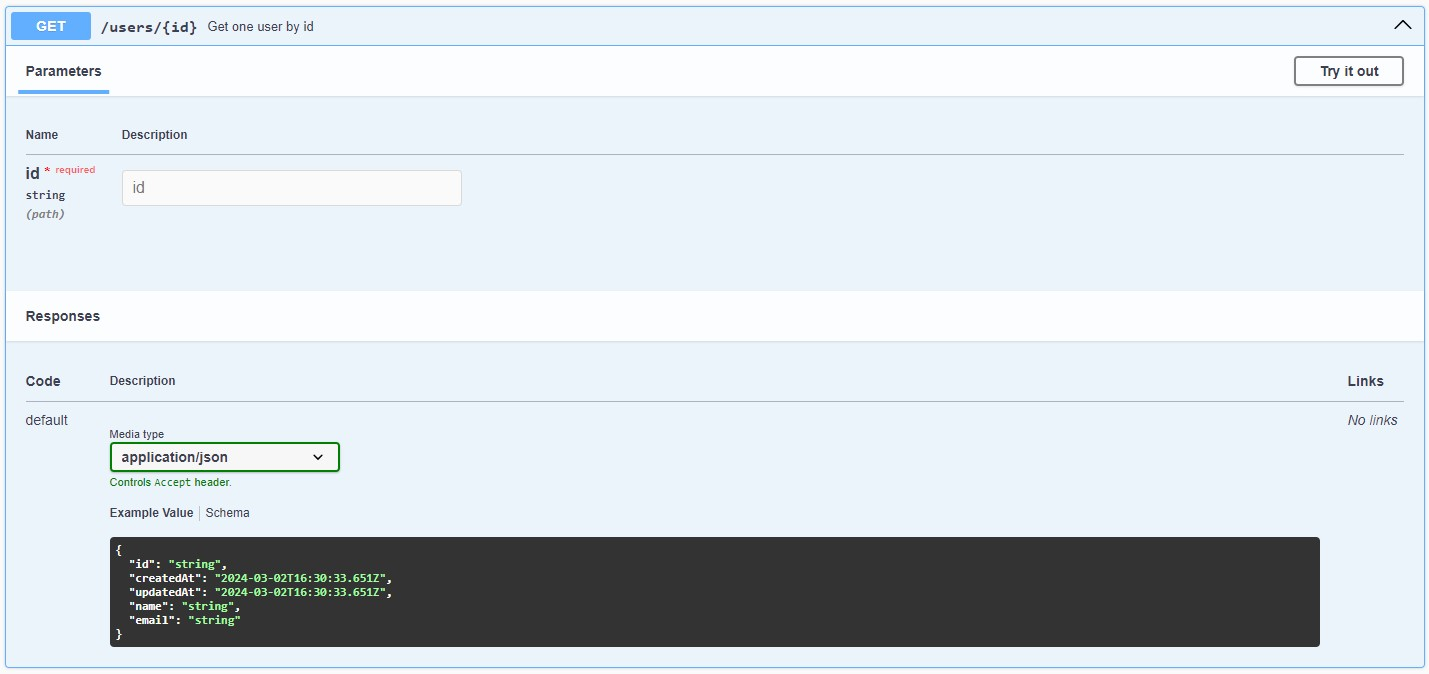
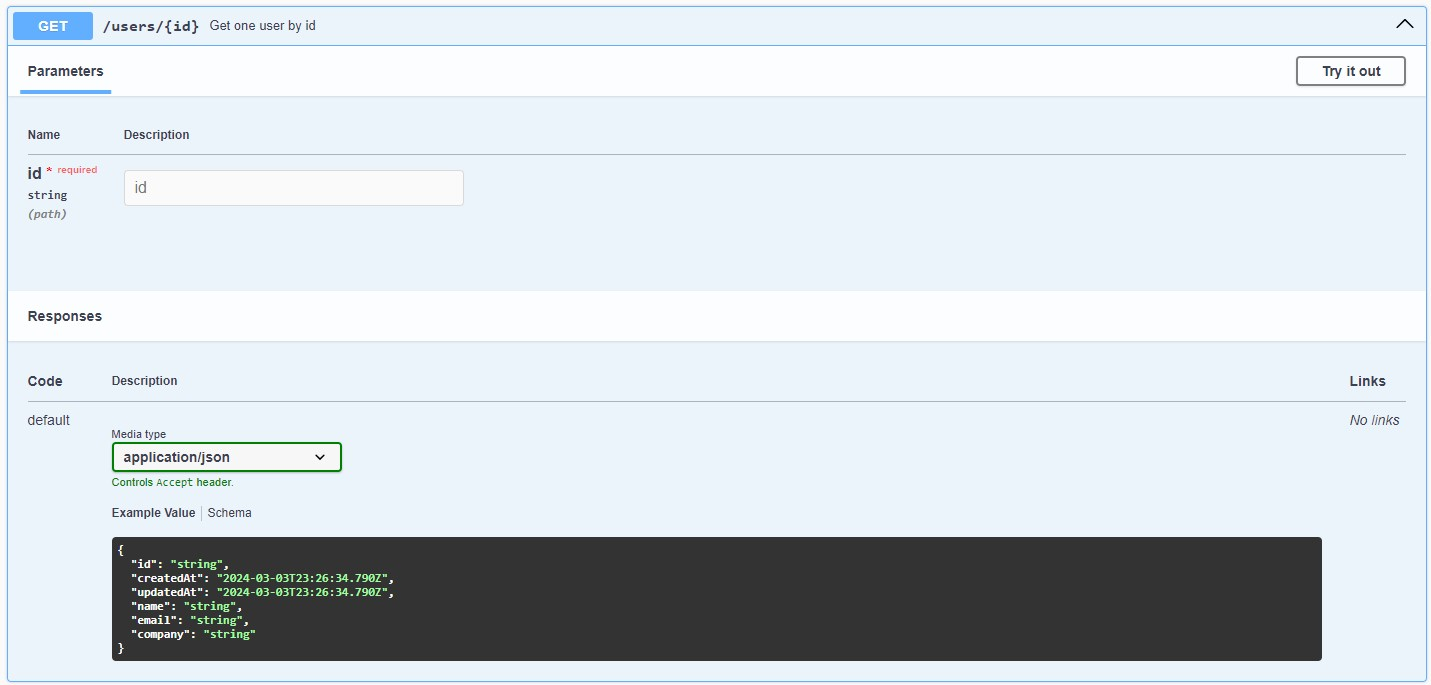
docs: improve README.md, update screenshots

diff --git a/README.md b/README.md
@@ -80,14 +80,18 @@ nest new --strict your-project-name
 ```text
 npm i -S mongodb-dynamic-api
 ```
+**Basic Configuration**
 
-- Add DynamicApiModule to your app.module.ts and pass the MongoDB connection string to the `forRoot` method
+- Add `DynamicApiModule.forRoot` to your `app.module.ts` and pass your **MongoDB connection string** to the method.
+
 ```typescript
+// app.module.ts
+import { DynamicApiModule } from 'mongodb-dynamic-api';
+
 @Module({
   imports: [
-    // ...
     DynamicApiModule.forRoot(
-      // <- pass the MongoDB connection string here
+      'mongodb://127.0.0.1:27017/dynamic-api-db', // <- replace by your own connection string
     ),
     // ...
   ],
@@ -96,12 +100,20 @@ npm i -S mongodb-dynamic-api
 })
 export class AppModule {}
 ```
+**Basic usage**
 
-- Ok, now let's add our first content. This content will be a simple `User` with a `name` and an `email` field.
+- Ok, now let's add our first content with just 2 files. It will be a simple `User` with a `name` and an `email` field.
+- We use the `@Schema` and `@Prop` decorators from the `@nestjs/mongoose` package to define our MongoDB model. 
+- You must extend the `BaseEntity` (or `SoftDeletableEntity`) class from the `mongodb-dynamic-api` package **for all your collection models**.
+- Just create a new file `user.ts` and add the following code.
+
 ```typescript
-// user.ts
+// users/user.ts
+import { Prop, Schema } from '@nestjs/mongoose';
+import { BaseEntity } from 'mongodb-dynamic-api';
+
 @Schema({ collection: 'users' })
-export class User extends BaseEntity { // <- you must extend BaseEntity
+export class User extends BaseEntity {
   @Prop({ type: String })
   name: string;
 
@@ -109,11 +121,19 @@ export class User extends BaseEntity { // <- you must extend BaseEntity
   email: string;
 }
 ```
+
+- Then we will use the `DynamicApiModule.forFeature` method to add the `User` content.
+- We pass the `User` class to the `entity` property and specify the path `users` to the `controllerOptions` property.
+- Create a new file `users.module.ts` and add the following code.
+
 ```typescript
-// users.module.ts
+// users/users.module.ts
+import { DynamicApiModule } from 'mongodb-dynamic-api';
+import { User } from './user';
+
 @Module({
   imports: [
-    DynamicApiModule.forFeature({ // <- use the forFeature method to add the User content
+    DynamicApiModule.forFeature({
       entity: User,
       controllerOptions: {
         path: 'users',
@@ -123,13 +143,19 @@ export class User extends BaseEntity { // <- you must extend BaseEntity
 })
 export class UsersModule {}
 ```
+
+- Last step, add the `UsersModule` to the **imports** in the `app.module.ts` after the `DynamicApiModule.forRoot` method.
+
 ```typescript
 // app.module.ts
+import { DynamicApiModule } from 'mongodb-dynamic-api';
+import { UsersModule } from './users/users.module';
+
 @Module({
   imports: [
-    // ...
     DynamicApiModule.forRoot('...'),
-    UsersModule, // <- add the module to the imports after the DynamicApiModule
+    // ...
+    UsersModule,
   ],
   controllers: [AppController],
   providers: [AppService],
@@ -137,11 +163,18 @@ export class UsersModule {}
 export class AppModule {}
 ```
 
-**That's all !** *You now have a fully functional CRUD API for the `User` content at the `/users` path.*
+**And that's all !** *You now have a fully functional CRUD API for the `User` content at the `/users` path.*
 
 ___
-### [Swagger]() (optional but recommended)
+### [Swagger UI](https://docs.nestjs.com/openapi/introduction#document-options) (optional but strongly recommended)
+`function enableDynamicAPISwagger(app: INestApplication, options?: DynamicAPISwaggerOptions): void`
+
+**Configuration**
+
 ```typescript
+// main.ts
+import { enableDynamicAPISwagger } from 'mongodb-dynamic-api';
+
 async function bootstrap() {
   const app = await NestFactory.create(AppModule);
   // ...
@@ -150,12 +183,20 @@ async function bootstrap() {
   await app.listen(3000);
 }
 ```
-The `enableDynamicAPISwagger` function will automatically build the swagger documentation.
-This method can be called with optional parameters to specify more documentation options.
 
-Do not forget to add the `@ApiProperty` decorator to your entity properties to have a better swagger documentation.
+The `enableDynamicAPISwagger` function will automatically build the swagger documentation.
+<br>This method can be called with optional parameters to specify more documentation options.
+<br>*See <strong>nestjs</strong> <a href="https://docs.nestjs.com/openapi/introduction#document-options" target="_blank">documentation</a> for more details.*
+
+**Usage**
+
+Add the `@ApiProperty` | `@ApiPropertyOptional` decorators to your class properties to have a better swagger documentation.
+<br>Let's add an optional company field to the `User` class.
+
 ```typescript
 // user.ts
+import { ApiProperty, ApiPropertyOptional } from '@nestjs/swagger';
+
 @Schema({ collection: 'users' })
 export class User extends BaseEntity {
   @ApiProperty() // <- add this line
@@ -165,19 +206,114 @@ export class User extends BaseEntity {
   @ApiProperty() // <- add this line
   @Prop({ type: String })
   email: string;
+
+  @ApiPropertyOptional() // <- add this line
+  @Prop({ type: String, required: false })
+  company?: string;
 }
 ```
 
-go to the swagger API path (default to `/openapi`) and you will see the auto generated API
-
+go to the swagger API path (default to `/dynamic-api`) and you will see the auto generated API
 
 ![User API](https://github.com/MikeDev75015/mongodb-dynamic-api/blob/develop/README/images/dynamic-api-user-full.Jpeg?raw=true "User API")
 
-[more screenshots](https://github.com/MikeDev75015/mongodb-dynamic-api/blob/develop/README/swagger.md)
+<a href="https://github.com/MikeDev75015/mongodb-dynamic-api/blob/develop/README/swagger.md" target="_blank">See more User API screenshots</a>
 
 ___
-### Versioning (optional)
+### [Validation](https://docs.nestjs.com/techniques/validation#using-the-built-in-validationpipe) (optional)
+`function enableDynamicAPIValidation(app: INestApplication, options?: ValidationPipeOptions): void`
+
+**Configuration**
+
 ```typescript
+// main.ts
+import { enableDynamicAPIValidation } from 'mongodb-dynamic-api';
+
+async function bootstrap() {
+  const app = await NestFactory.create(AppModule);
+  // ...
+  enableDynamicAPIValidation(app); // <- add this line in your main.ts file
+
+  await app.listen(3000);
+}
+```
+The `enableDynamicAPIValidation` function allow to configure the pipe validation options for the API globally.
+
+You can also define the pipe validation options in the `DynamicApiModule.forFeature` method, either in the controller options,
+or in each route object defined in the routes property.
+
+*If the options are specified in 2, the options specified in the route will have priority.*
+
+```typescript
+// users.module.ts
+import { DynamicApiModule } from 'mongodb-dynamic-api';
+import { User } from './user';
+
+@Module({
+  imports: [
+    DynamicApiModule.forFeature({
+      entity: User,
+      controllerOptions: {
+        // ...
+        validationPipeOptions: { // <- in the controller options
+          transform: true,
+          whitelist: true,
+          forbidNonWhitelisted: true,
+        },
+      },
+      routes: [
+        {
+          type: 'DuplicateOne',
+          validationPipeOptions: { transform: true }, // <- in the route options
+        },
+      ],
+    }),
+  ],
+})
+export class UsersModule {}
+```
+
+**Usage**
+
+Use the `Class validator` <a href="https://github.com/typestack/class-validator?tab=readme-ov-file#validation-decorators" target="_blank">decorators</a> to validate your class properties.
+<br>Let's add `IsEmail` decorator to the `email` field.
+
+```typescript
+// user.ts
+import { IsEmail } from 'class-validator';
+
+@Schema({ collection: 'users' })
+export class User extends BaseEntity {
+  @ApiProperty()
+  @Prop({ type: String })
+  name: string;
+
+  @ApiProperty()
+  @IsEmail()
+  @Prop({ type: String })
+  email: string;
+
+  @ApiPropertyOptional()
+  @Prop({ type: String, required: false })
+  company?: string;
+}
+```
+
+Ok, now if you try to create a new user with an invalid email, you will get a `400 Bad Request` error.
+
+![User API Validation](https://github.com/MikeDev75015/mongodb-dynamic-api/blob/develop/README/images/dynamic-api-validation.Jpeg?raw=true "User API Validation")
+
+
+___
+### [Versioning](https://docs.nestjs.com/techniques/versioning) (optional)
+`function enableDynamicAPIVersioning(app: INestApplication, options?: VersioningOptions): void`
+
+**Configuration**
+
+```typescript
+// main.ts
+import { enableDynamicAPIVersioning } from 'mongodb-dynamic-api';
+
 async function bootstrap() {
   const app = await NestFactory.create(AppModule);
   // ...
@@ -186,5 +322,96 @@ async function bootstrap() {
   await app.listen(3000);
 }
 ```
-The `enableDynamicAPIVersioning` function will automatically add versioning to the API. By default it will use the URI versioning type.
-This method can be called with a second optional parameter to specify more options.
+
+The `enableDynamicAPIVersioning` function will automatically add versioning to the API.
+<br>By default, it will use the <strong>URI versioning type</strong>.
+<br>This method can be called with a second <strong>optional parameter</strong> to specify custom options.
+<br>*See <strong>nestjs</strong> <a href="https://docs.nestjs.com/techniques/versioning" target="_blank">documentation</a> for more details.*
+
+**Usage**
+
+Pass the `version` property to the `controllerOptions` object or to the `route` object in the `DynamicApiModule.forFeature` method.
+
+*If the version is specified in 2, the version specified in the route will have priority.*
+
+```typescript
+// create-one-user-v2.dto.ts
+import { ApiProperty, ApiPropertyOptional, PickType } from '@nestjs/swagger';
+import { IsOptional, IsString } from 'class-validator';
+import { User } from './user';
+
+export class CreateOneUserV2Dto extends PickType(User, ['email']) {
+  @ApiProperty()
+  @IsString()
+  fullName: string;
+
+  @ApiProperty()
+  @IsString()
+  phoneNumber: string;
+
+  @ApiPropertyOptional()
+  @IsString()
+  @IsOptional()
+  country?: string;
+}
+```
+
+```typescript
+// user-v2.presenter.ts
+import { ApiProperty, ApiPropertyOptional, PickType } from '@nestjs/swagger';
+import { User } from './user';
+
+export class UserV2Presenter extends PickType(User, ['email']) {
+  @ApiProperty()
+  fullName: string;
+
+  @ApiProperty()
+  phoneNumber: string;
+
+  @ApiPropertyOptional()
+  country?: string;
+}
+```
+
+```typescript
+// users.module.ts
+import { DynamicApiModule } from 'mongodb-dynamic-api';
+import { User } from './user';
+import { CreateOneUserV2Dto } from './create-one-user-v2.dto';
+import { UserV2Presenter } from './user-v2.presenter';
+
+@Module({
+  imports: [
+    DynamicApiModule.forFeature({
+      entity: User,
+      controllerOptions: {
+        path: 'users',
+        version: '1', // <- add this line
+      },
+      routes: [
+        { type: 'GetMany' },
+        { type: 'GetOne' },
+        {
+          type: 'CreateOne',
+          dTOs: {
+            body: CreateOneUserV2Dto,
+            presenter: UserV2Presenter,
+          },
+          version: '2', // <- add this line
+        },
+      ],
+    }),
+  ],
+})
+export class UsersModule {}
+```
+
+Great, now you have a versioned User API, and you can access it at the `/v1/users` and `/v2/users` path.
+
+![User API Versioned](https://github.com/MikeDev75015/mongodb-dynamic-api/blob/develop/README/images/dynamic-api-versioning.Jpeg?raw=true "User API Versioned")
+
+
+___
+
+More examples coming soon...
+
